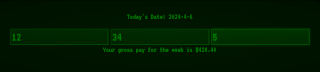
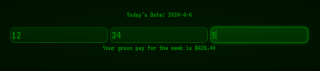
update styles

diff --git a/assets/main.css b/assets/main.css
@@ -41,6 +41,7 @@ body {
 input {
     background: linear-gradient(#00800030, #00800020);
     border-color: #00800080;
+    border-radius: 12.5px;
     color: #008000;
     font-family: VT323;
     font-size: 2em;
@@ -52,8 +53,8 @@ input:focus {
     animation-timing-function: linear;
     animation-iteration-count: infinite;
     animation-direction: alternate;
-    border: 1px solid #00800080;
-    outline: 1px solid #008000A0;
+    border: 3px solid #008000A0;
+    outline: transparent;
 }
 
 img {
